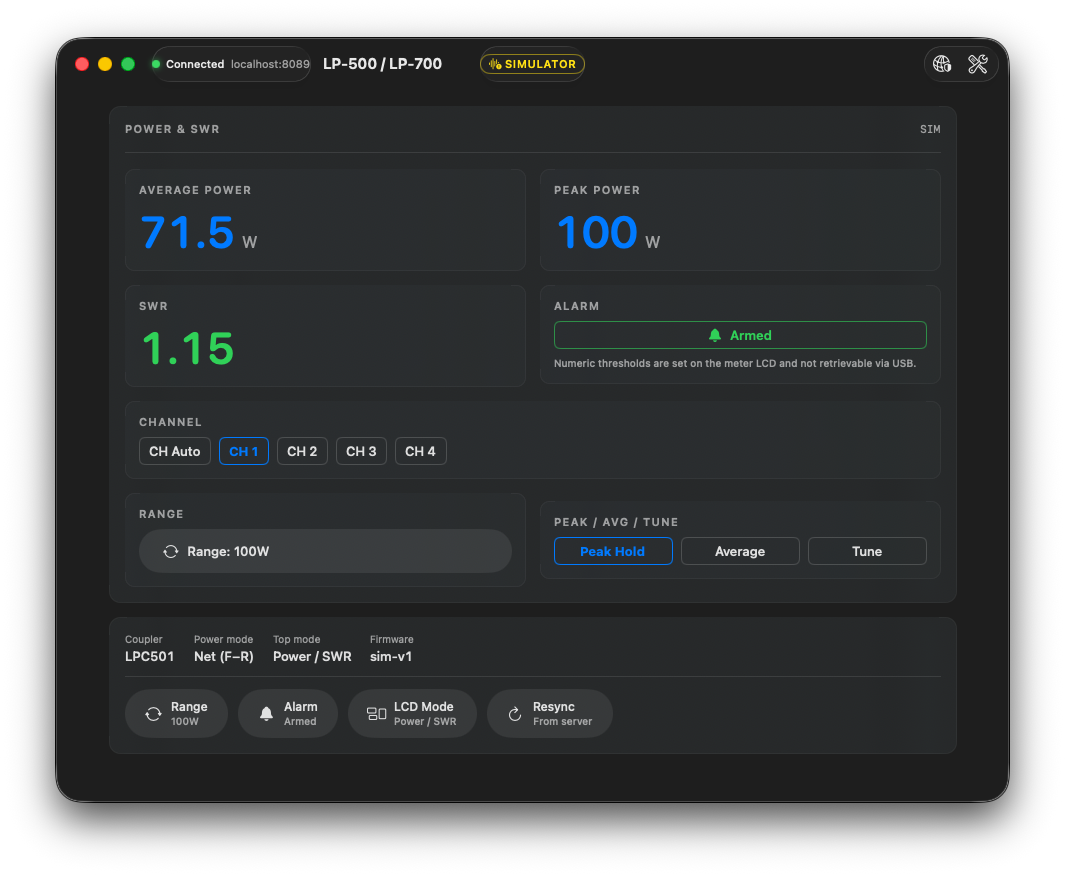
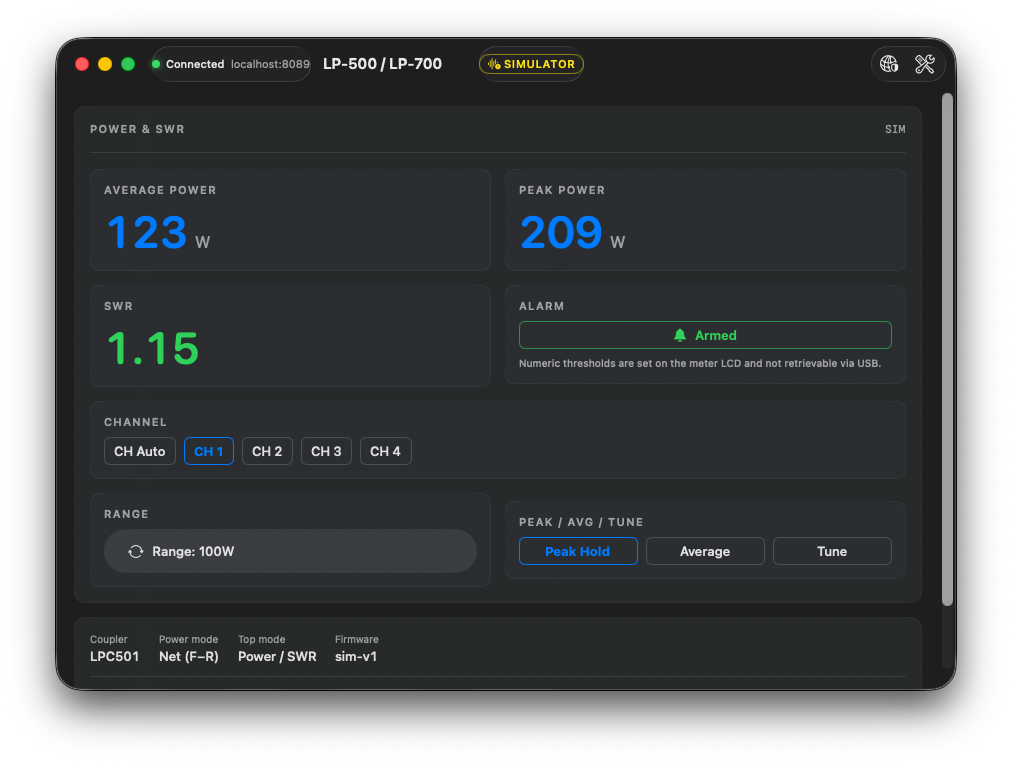
Peak Power: respect peak_mode and surface peak_hold_w in Peak Hold
Mirror LP-700-Server commit fc9bde0 ("fix: Peak Hold now actually
holds in the web UI"). The wire frame now carries two distinct
power-peak fields:

  power_peak_w  bytes 23-24 — live envelope peak this poll cycle,
                              decays on key-up
  peak_hold_w   bytes 0-1   — firmware-maintained held peak, sticky
                              until the meter clears it

The "Peak power" readout was always reading power_peak_w, so Peak
Hold mode in the app didn't actually hold — values dropped on
key-up just like Average/Tune. Add a Snapshot.displayedPeakW
computed property that picks peak_hold_w in peak_hold mode and
power_peak_w elsewhere, falling back to power_peak_w when
peak_hold_w is 0 (older server build, or no peak observed yet).
PowerSWRView and MenuBarContent both switched to it; the on-screen
selection now matches the meter's LCD and the embedded web client
render() exactly.

Smoke-tested against the simulator running locally:
  peak_mode=peak_hold  power_peak_w≈100 (fluctuating)  peak_hold_w=209.0
  → Peak Power readout shows 209 W (sticky) instead of ~100 W (live).

Adds testDisplayedPeakWSelection covering all four modes + the
fallback path. CLAUDE.md and USER_MANUAL §3.2 updated to describe
the new behavior. Screenshot 02-power-swr-view.png regenerated to
show 209 W held value in the Peak Hold demo.

diff --git a/Tests/LP700AppTests/WireProtocolTests.swift b/Tests/LP700AppTests/WireProtocolTests.swift
@@ -121,6 +121,56 @@ final class WireProtocolTests: XCTestCase {
         XCTAssertEqual(json["type"] as? String, "resync")
     }
 
+    // MARK: - displayedPeakW selection
+
+    /// Mirrors the server's embedded web client (index.html) which now
+    /// shows `peak_hold_w` in Peak Hold mode and `power_peak_w`
+    /// elsewhere. See LP-700-Server commit fc9bde0.
+    func testDisplayedPeakWSelection() throws {
+        // Helper: decode a synthesised telemetry frame into Snapshot.
+        func snap(peakMode: String, peakHoldW: Double, powerPeakW: Double) throws -> Snapshot {
+            let data = """
+            {"type":"telemetry","seq":1,"ts":"x","data":{
+              "channel":1,"auto_channel":false,
+              "power_avg_w":50,"power_peak_w":\(powerPeakW),"peak_hold_w":\(peakHoldW),
+              "swr":1.1,"range":"100W",
+              "peak_mode":"\(peakMode)","power_mode":"net",
+              "alarm_enabled":false,"alarm_power_w":0,"alarm_swr":0,"alarm_tripped":false,
+              "callsign":"","coupler":"","top_mode":"power_swr","firmware_rev":"",
+              "status_message":""
+            }}
+            """.data(using: .utf8)!
+            let frame = try JSONDecoder().decode(ServerFrame.self, from: data)
+            guard case .telemetry(_, _, let s) = frame else {
+                throw NSError(domain: "test", code: 0)
+            }
+            return s
+        }
+
+        // Peak Hold mode + held peak present → show held peak.
+        var s = try snap(peakMode: "peak_hold", peakHoldW: 250, powerPeakW: 110)
+        XCTAssertEqual(s.displayedPeakW, 250, accuracy: 0.01,
+                       "peak_hold mode must surface peak_hold_w")
+
+        // Peak Hold mode + held peak unpopulated (older server build, or
+        // genuinely zero) → fall back to live envelope peak.
+        s = try snap(peakMode: "peak_hold", peakHoldW: 0, powerPeakW: 110)
+        XCTAssertEqual(s.displayedPeakW, 110, accuracy: 0.01,
+                       "peak_hold mode + zero held peak must fall back to power_peak_w")
+
+        // Average mode → always show live peak, even when peak_hold_w
+        // happens to be populated (the firmware keeps it updated
+        // regardless of display mode, per LP-500_VM v1.080 dumps).
+        s = try snap(peakMode: "average", peakHoldW: 250, powerPeakW: 110)
+        XCTAssertEqual(s.displayedPeakW, 110, accuracy: 0.01,
+                       "average mode must show power_peak_w regardless of peak_hold_w")
+
+        // Tune mode → same rule as Average.
+        s = try snap(peakMode: "tune", peakHoldW: 999, powerPeakW: 5)
+        XCTAssertEqual(s.displayedPeakW, 5, accuracy: 0.01,
+                       "tune mode must show power_peak_w")
+    }
+
     func testRangeNamesMatchServer() {
         // Must mirror RANGE_NAMES in the server's embedded web client
         // (internal/web/static/index.html). If the server's order changes,

diff --git a/Sources/LP700App/Net/WireProtocol.swift b/Sources/LP700App/Net/WireProtocol.swift
@@ -79,6 +79,24 @@ struct Snapshot: Codable, Equatable {
         case statusMessage = "status_message"
     }
 
+    /// Power value to display in the "Peak power" readout. Mirrors the
+    /// server's embedded web client (index.html, render()): in
+    /// `peak_hold` mode show the firmware-maintained held peak from
+    /// bytes 0-1 (`peak_hold_w`); in `average` / `tune` show the live
+    /// envelope peak from bytes 23-24 (`power_peak_w`). Falls back to
+    /// the live value when `peak_hold_w` is 0 — covers older server
+    /// builds that hadn't yet decoded bytes 0-1, and the trivial case
+    /// where no peak has been observed yet.
+    ///
+    /// See LP-700-Server commit fc9bde0 ("fix: Peak Hold now actually
+    /// holds in the web UI") for the wire-side change this mirrors.
+    var displayedPeakW: Double {
+        if peakMode == .peakHold, peakHoldW > 0 {
+            return peakHoldW
+        }
+        return powerPeakW
+    }
+
     init(from decoder: Decoder) throws {
         let c = try decoder.container(keyedBy: CodingKeys.self)
         channel        = (try? c.decode(Int.self, forKey: .channel)) ?? 0

diff --git a/Sources/LP700App/MenuBar/MenuBarContent.swift b/Sources/LP700App/MenuBar/MenuBarContent.swift
@@ -33,7 +33,7 @@ struct MenuBarContent: View {
     var body: some View {
         VStack(alignment: .leading, spacing: 8) {
             row("Avg",   value: power(vm.snapshot?.powerAvgW))
-            row("Peak",  value: power(vm.snapshot?.powerPeakW))
+            row("Peak",  value: power(vm.snapshot?.displayedPeakW))
             row("SWR",   value: vm.snapshot.map { String(format: "%.2f", $0.swr) } ?? "—")
             row("Range", value: vm.snapshot?.range ?? "—")
             row("CH",    value: channelLabel)

diff --git a/Sources/LP700App/Views/PowerSWRView.swift b/Sources/LP700App/Views/PowerSWRView.swift
@@ -13,7 +13,7 @@ struct PowerSWRView: View {
                             value: formatPower(vm.snapshot?.powerAvgW),
                             tint: .accentColor)
                 ReadingCard(label: "Peak power",
-                            value: formatPower(vm.snapshot?.powerPeakW),
+                            value: formatPower(vm.snapshot?.displayedPeakW),
                             tint: .accentColor)
             }
 

diff --git a/CLAUDE.md b/CLAUDE.md
@@ -113,7 +113,7 @@ LP-700-App/
 
 `Snapshot` is 1:1 with the server's `internal/lpmeter/snapshot.go`:
 
-- Power: `power_avg_w`, `power_peak_w`, `peak_hold_w` (sim only at v0.1)
+- Power: `power_avg_w` (live), `power_peak_w` (live envelope peak — bytes 23-24), `peak_hold_w` (firmware-maintained held peak — bytes 0-1; populated by both real HID and simulator backends as of LP-700-Server fc9bde0)
 - SWR: `swr` — severity tint thresholds 1.5 / 2.0
 - Channel: `channel` (1..4) + `auto_channel` (bool)
 - Range: `range` ("auto" / "5W" / "10W" / … / "10K")
@@ -158,9 +158,14 @@ checkbox to keep the new tag out of "latest".
   numeric `channel` may still hold the *currently active* slot. UI
   should show "CH Auto" highlighted, not "CH N". `PowerSWRView`
   handles this with `data.autoChannel == true ? autoActive : (!data.autoChannel && data.channel == i)`.
-- **`peak_hold_w` is simulator-only at server v0.1.** The HID decoder
-  doesn't fill it yet (see `internal/lpmeter/snapshot.go` doc comment).
-  Don't tie UI to it being non-zero.
+- **Peak Power display follows `peak_mode`.** The wire frame carries
+  two distinct fields: `power_peak_w` (live envelope peak, bytes 23-24,
+  decays on key-up) and `peak_hold_w` (firmware-maintained held peak,
+  bytes 0-1, sticky until cleared on the meter). The "Peak power"
+  readout selects between them via `Snapshot.displayedPeakW`: held in
+  Peak Hold mode, live in Average/Tune. Mirrors index.html's render()
+  so app + web client stay aligned. Falls back to `power_peak_w` if
+  `peak_hold_w` is 0 (older server build, or no peak observed yet).
 - **`status_message` empties on TX-end.** When the meter clears its
   alert ASCII, the server sends `status_message: ""`. The UI hides
   the banner when empty — don't show a stale message.

diff --git a/docs/USER_MANUAL.md b/docs/USER_MANUAL.md
@@ -97,7 +97,15 @@ meter's display mode, matching the small "57 AV / 94 PK" LCD
 indicators that are always visible on the front panel.
 
 - **Average power** — large blue numeric, units auto-scale (W → kW).
-- **Peak power** — sticky maximum, decays after 1.5 s of no new max.
+- **Peak power** — what shows here depends on the meter's current
+  Peak/Avg/Tune mode, mirroring the meter's own LCD:
+  - **Peak Hold mode** — the firmware-maintained held peak. Sticks at
+    the maximum until you change mode or clear it on the meter; this
+    is the "held" value the meter advertises in Peak Hold mode.
+  - **Average / Tune mode** — the live envelope peak this poll cycle.
+    Drops to zero on key-up, mirrors the meter's small `PK` indicator.
+  - If the server is an older build that hasn't decoded the held-peak
+    field yet, the app falls back to live envelope peak in all modes.
 - **SWR** — coloured by severity:
   - **green** ≤ 1.5
   - **yellow** 1.5 – 2.0
